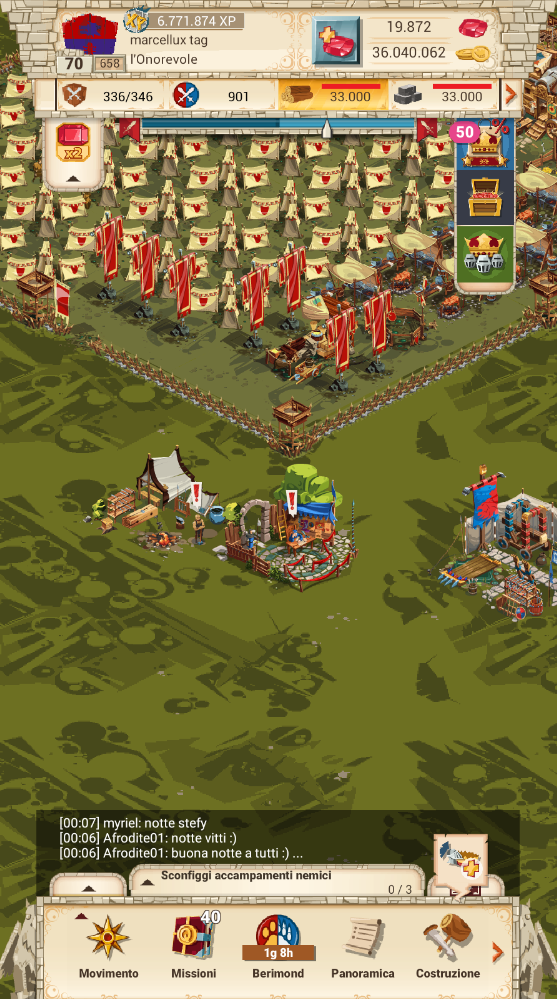
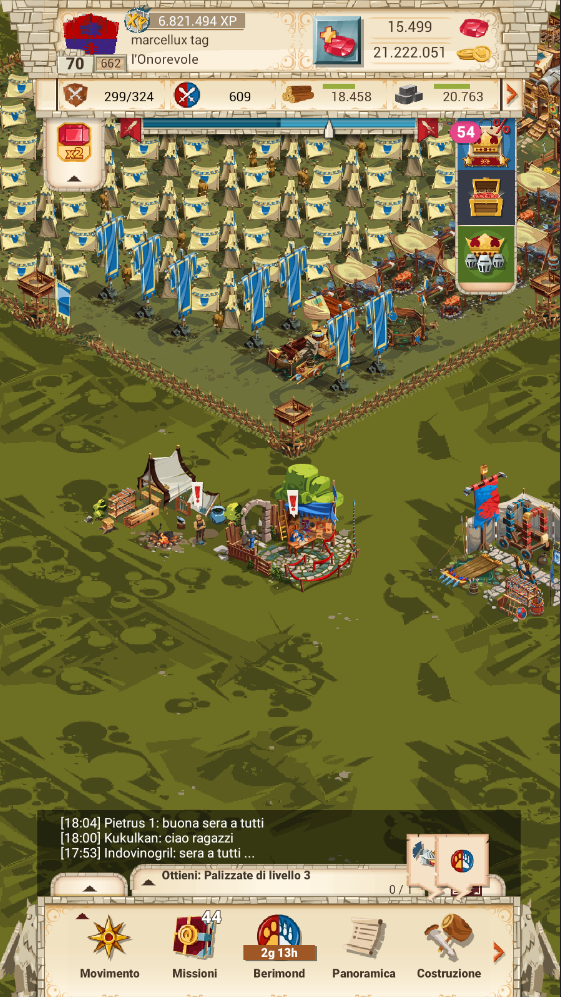
feat: implement player module for structured macro execution with anti-ban logic and add baseline assets and configuration

diff --git a/modules/player.py b/modules/player.py
@@ -218,14 +218,15 @@ class Player:
 
         Strategy:
         1. Take a fresh screenshot
-        2. Find all matching assets
-        3. Click only the FIRST match (the topmost/foreground popup)
-        4. Wait for the popup to close
+        2. Find ALL matching popup assets on screen
+        3. Click every match found in this pass, one by one
+        4. Wait briefly after each click for the popup to close
         5. Take a NEW screenshot and repeat from step 2
         6. Stop when no more matches are found
 
-        This ensures popups hidden behind other popups are handled correctly —
-        we never try to click a button that's obscured by a foreground popup.
+        This ensures ALL visible popups are dismissed before resuming the macro.
+        After clicking everything visible, a re-scan catches any new popups
+        that may have appeared underneath the ones we just closed.
         """
         MAX_PASSES = 20  # Safety limit to prevent infinite loops
         CLICK_SETTLE_TIME = 0.8  # Time to wait for a popup to close after clicking
@@ -255,23 +256,31 @@ class Player:
             if not matches:
                 break  # Screen is clean — no more popups
 
-            # Click only the FIRST match (topmost popup)
-            abs_x, abs_y, asset_name = matches[0]
-            try:
-                human_move_to(abs_x, abs_y)
-                pyautogui.click(abs_x, abs_y)
-                total_clicks += 1
-                print(
-                    f"[Player] Pass {scan_pass}: clicked '{asset_name}' "
-                    f"at ({abs_x}, {abs_y})  "
-                    f"[{len(matches)} match(es) on screen]"
-                )
-            except pyautogui.FailSafeException:
-                print(f"[Player] FailSafe triggered during vision scan click. Stopping scan.")
-                break
+            # Click ALL matches found in this pass, one by one
+            clicks_this_pass = 0
+            for abs_x, abs_y, asset_name in matches:
+                if not self.is_playing or (check_stop_callback and check_stop_callback()):
+                    print("[Player] Vision scan interrupted during clicking.")
+                    return
 
-            # Wait for the popup to close before re-scanning
-            self._safe_sleep(CLICK_SETTLE_TIME, check_stop_callback)
+                try:
+                    human_move_to(abs_x, abs_y)
+                    pyautogui.click(abs_x, abs_y)
+                    total_clicks += 1
+                    clicks_this_pass += 1
+                    print(
+                        f"[Player] Pass {scan_pass}: clicked '{asset_name}' "
+                        f"at ({abs_x}, {abs_y})  "
+                        f"[{clicks_this_pass}/{len(matches)} in this pass]"
+                    )
+                except pyautogui.FailSafeException:
+                    print(f"[Player] FailSafe triggered during vision scan click. Stopping scan.")
+                    break
+
+                # Wait for the popup to close before clicking the next one
+                self._safe_sleep(CLICK_SETTLE_TIME, check_stop_callback)
+
+            # After clicking all matches, re-scan to check for new popups
 
         if total_clicks == 0:
             print("[Player] Vision scan: no popups found on screen.")